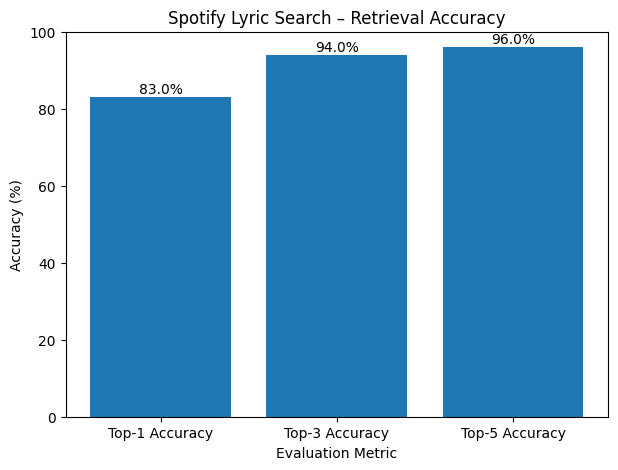
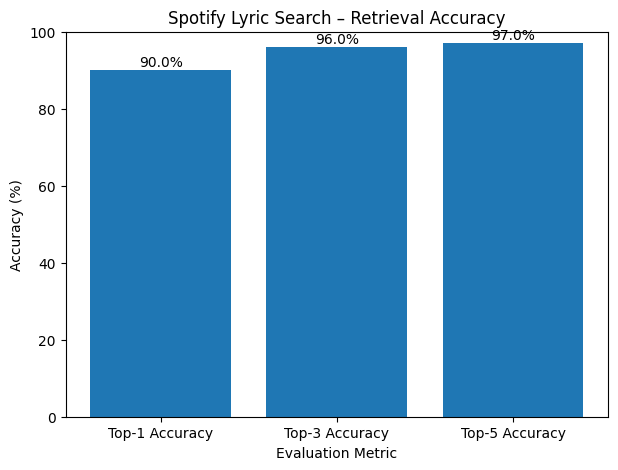
bm25 used

Changed region(s): [[0.123, 0.1191, 0.3997, 0.2085], [0.4304, 0.0596, 0.6764, 0.1191], [0.7071, 0.0596, 0.9531, 0.1191]]

diff --git a/src/search.py b/src/search.py
@@ -1,32 +1,35 @@
-import torch
 import numpy as np
-from sklearn.metrics.pairwise import cosine_similarity
+from rank_bm25 import BM25Okapi
 from preprocess import preprocess_text
 
 class LyricSearchEngine:
-    def __init__(self, df, embeddings):
+    def __init__(self, df):
+       
         self.df = df
-        self.embeddings = embeddings
+        
+        # 1. Prepare the corpus for BM25
+        # BM25 requires a list of lists of tokens (words)
+        # We apply preprocessing and then split the string into tokens
+        self.corpus_tokens = [
+            preprocess_text(text).split() for text in self.df['lyrics'].tolist()
+        ]
+        
+        # 2. Initialize and fit the BM25 model
+        self.bm25 = BM25Okapi(self.corpus_tokens)
 
     def search(self, lyric_snippet: str, top_k: int = 5):
-        # 1. Preprocess user input
+       
+        # 1. Preprocess and tokenize user input
         clean_snippet = preprocess_text(lyric_snippet)
+        tokenized_query = clean_snippet.split()
 
-        # 2. Use the model (PyTorch based) to encode the snippet
-        # This assumes you pass the model to the search function or have it available 
-        from model import LyricEmbeddingModel
-        model_wrapper = LyricEmbeddingModel() 
-        snippet_embedding = model_wrapper.model.encode([clean_snippet])
+        # 2. Get scores from BM25
+        scores = self.bm25.get_scores(tokenized_query)
 
-        # 3. Calculate Cosine Similarity
-        # This is the "Similarity Model" part of your task
-        similarities = cosine_similarity(snippet_embedding, self.embeddings)[0]
-
-        # 4. Get top results
-        top_indices = np.argsort(similarities)[-top_k:][::-1]
+        # 3. Get top results
+        top_indices = np.argsort(scores)[-top_k:][::-1]
 
         candidates = self.df.iloc[top_indices].copy()
-        candidates["score"] = similarities[top_indices]
+        candidates["score"] = scores[top_indices]
 
         return candidates[["track_name", "artist_name", "score"]]
-    

diff --git a/README.md b/README.md
@@ -65,7 +65,7 @@ Each song’s lyrics are converted into a fixed-length vector representation cap
 
 ### 3. Similarity Search
 
-* **Metric**: Cosine similarity
+* **Metric**: (rank_bm25) BM25Okapi
 * **Approach**: Top-K retrieval
 
 Given a lyric snippet:
